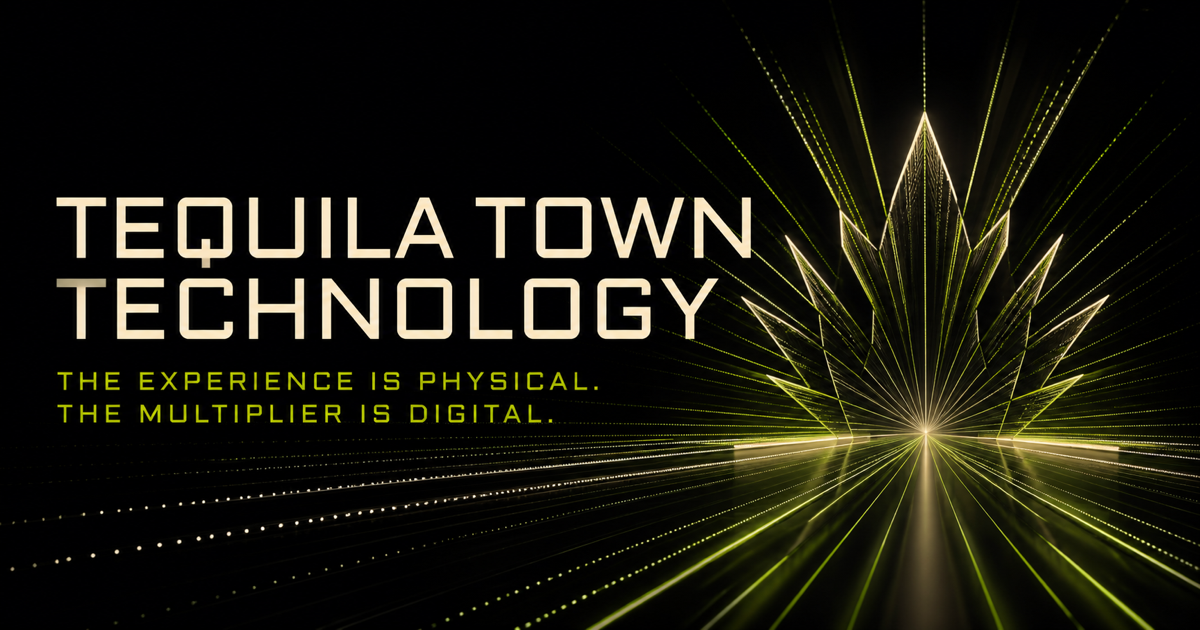
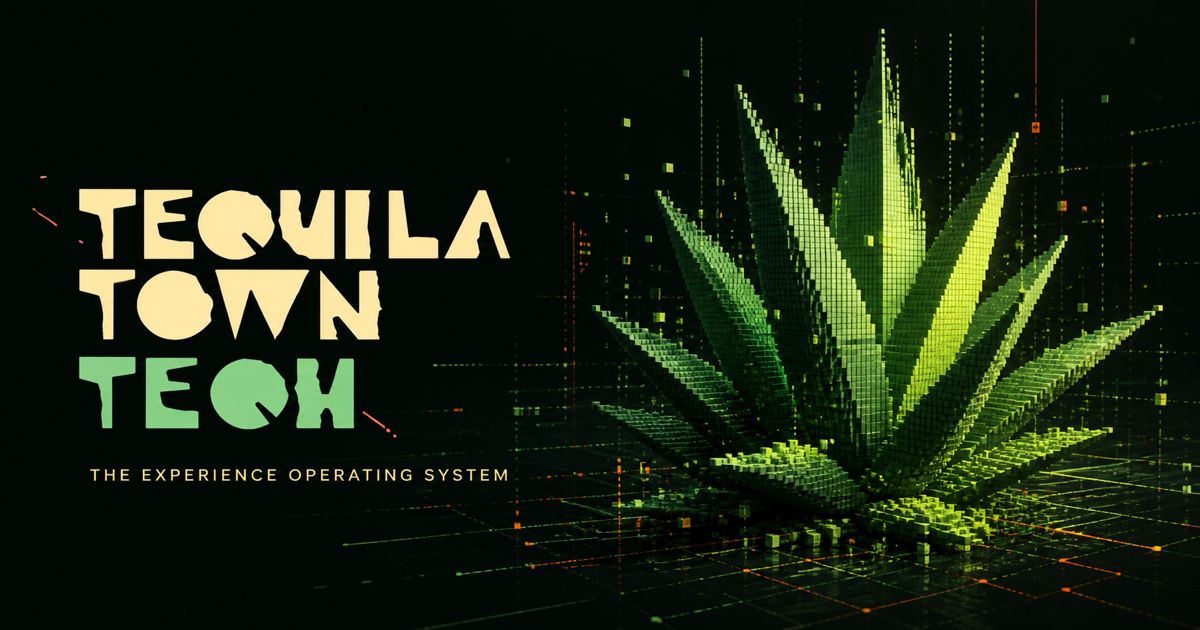
Add Tequila Town Tech identity system

diff --git a/app/product-engine.tsx b/app/product-engine.tsx
@@ -4,17 +4,13 @@ import { useEffect, useRef } from 'react';
 
 type ProductType = 'radar' | 'app' | 'swarm' | 'control';
 
-const palette: Record<ProductType, string> = {
-  radar: '#a6e187', app: '#b2e1d9', swarm: '#ff6a21', control: '#ffce64',
-};
-
 function useCanvas(drawScene: (ctx: CanvasRenderingContext2D, w: number, h: number, t: number, pointer: {x:number;y:number}) => void) {
   const ref = useRef<HTMLCanvasElement>(null);
   useEffect(() => {
     const canvas = ref.current; if (!canvas) return;
     const ctx = canvas.getContext('2d'); if (!ctx) return;
     const reduce = matchMedia('(prefers-reduced-motion: reduce)').matches;
-    let raf=0, visible=false, pointer={x:.5,y:.5}, target={...pointer};
+    let raf=0, visible=false, target={x:.5,y:.5}; const pointer={...target};
     const resize=()=>{const rect=canvas.getBoundingClientRect(),dpr=Math.min(devicePixelRatio,innerWidth<720?1.15:1.45);canvas.width=Math.max(1,Math.floor(rect.width*dpr));canvas.height=Math.max(1,Math.floor(rect.height*dpr));ctx.setTransform(dpr,0,0,dpr,0,0);};
     const move=(e:PointerEvent)=>{const r=canvas.getBoundingClientRect();target={x:(e.clientX-r.left)/r.width,y:(e.clientY-r.top)/r.height};};
     const loop=(ms:number)=>{pointer.x+=(target.x-pointer.x)*.045;pointer.y+=(target.y-pointer.y)*.045;const r=canvas.getBoundingClientRect();drawScene(ctx,r.width,r.height,reduce?6.4:ms*.001,pointer);if(visible&&!reduce)raf=requestAnimationFrame(loop);};
@@ -49,7 +45,7 @@ function app(ctx:CanvasRenderingContext2D,w:number,h:number,t:number,p:{x:number
   const c='#b2e1d9';base(ctx,w,h,c,p);ctx.save();ctx.translate((p.x-.5)*16,(p.y-.5)*10);
   const roads=[.18,.38,.62,.79];ctx.lineCap='round';roads.forEach((n,i)=>{ctx.strokeStyle=`rgba(178,225,217,${.1+i*.025})`;ctx.lineWidth=7;ctx.beginPath();ctx.moveTo(-20,h*n);ctx.bezierCurveTo(w*.2,h*(n-.22),w*.64,h*(n+.2),w+20,h*(n-.08));ctx.stroke();ctx.strokeStyle='#07100a';ctx.lineWidth=4;ctx.stroke();});
   const route=(u:number)=>{const x=32+(w-64)*u,y=h*.72-h*.46*u+Math.sin(u*Math.PI*2.3)*h*.12;return{x,y};};
-  ctx.strokeStyle='#b2e1d9';ctx.lineWidth=3;ctx.setLineDash([7,10]);ctx.beginPath();for(let i=0;i<=80;i++){const q=route(i/80);i?ctx.lineTo(q.x,q.y):ctx.moveTo(q.x,q.y);}ctx.stroke();ctx.setLineDash([]);
+  ctx.strokeStyle='#b2e1d9';ctx.lineWidth=3;ctx.setLineDash([7,10]);ctx.beginPath();for(let i=0;i<=80;i++){const q=route(i/80);if(i)ctx.lineTo(q.x,q.y);else ctx.moveTo(q.x,q.y);}ctx.stroke();ctx.setLineDash([]);
   for(let i=0;i<5;i++){const q=route(i/4);ctx.fillStyle=i<3?'#b2e1d9':'#0b1510';ctx.strokeStyle='#b2e1d9';ctx.lineWidth=2;ctx.beginPath();ctx.arc(q.x,q.y,9,0,Math.PI*2);ctx.fill();ctx.stroke();ctx.fillStyle=i<3?'#07100a':'#b2e1d9';ctx.font='700 9px monospace';ctx.textAlign='center';ctx.fillText(String(i+1),q.x,q.y+3);}
   const pulse=route((t*.13)%1);ctx.shadowBlur=22;ctx.shadowColor='#e0f257';ctx.fillStyle='#e0f257';ctx.beginPath();ctx.arc(pulse.x,pulse.y,5,0,Math.PI*2);ctx.fill();ctx.shadowBlur=0;ctx.restore();ctx.textAlign='left';ctx.fillStyle='rgba(255,241,182,.7)';ctx.font='500 10px monospace';ctx.fillText('LIVE GUEST JOURNEY / CHAPTER 03',22,h-24);
 }
@@ -58,13 +54,13 @@ function swarm(ctx:CanvasRenderingContext2D,w:number,h:number,t:number,p:{x:numb
   const c='#ff6a21';base(ctx,w,h,c,p);const cx=w*.5+(p.x-.5)*20,cy=h*.5+(p.y-.5)*16,rad=Math.min(w,h)*.32;
   const nodes=Array.from({length:8},(_,i)=>({x:cx+Math.cos(i/8*Math.PI*2-.3)*rad*(i%2?.82:1),y:cy+Math.sin(i/8*Math.PI*2-.3)*rad*.72,label:['GUEST','SALES','OPS','MEDIA','VIP','SPONSOR','DATA','CREATIVE'][i]}));
   nodes.forEach((n,i)=>{ctx.strokeStyle='rgba(255,106,33,.24)';ctx.lineWidth=1;ctx.beginPath();ctx.moveTo(cx,cy);ctx.quadraticCurveTo(cx+Math.sin(i)*45,cy+Math.cos(i)*30,n.x,n.y);ctx.stroke();const q=(t*.25+i*.123)%1,x=cx+(n.x-cx)*q,y=cy+(n.y-cy)*q;ctx.fillStyle=i%3===0?'#e0f257':'#ff6a21';ctx.beginPath();ctx.arc(x,y,2.5,0,Math.PI*2);ctx.fill();ctx.fillStyle='#0b1510';ctx.strokeStyle='rgba(255,106,33,.58)';ctx.lineWidth=1;ctx.fillRect(n.x-35,n.y-15,70,30);ctx.strokeRect(n.x-35,n.y-15,70,30);ctx.fillStyle='#fff1b6';ctx.font='600 8px monospace';ctx.textAlign='center';ctx.fillText(n.label,n.x,n.y+3);});
-  const pulse=1+Math.sin(t*2)*.07;ctx.save();ctx.translate(cx,cy);ctx.scale(pulse,pulse);ctx.rotate(t*.06);ctx.fillStyle='#ff6a21';ctx.beginPath();for(let i=0;i<6;i++){const a=i/6*Math.PI*2;i?ctx.lineTo(Math.cos(a)*48,Math.sin(a)*48):ctx.moveTo(Math.cos(a)*48,Math.sin(a)*48);}ctx.closePath();ctx.fill();ctx.restore();ctx.fillStyle='#07100a';ctx.font='800 11px monospace';ctx.textAlign='center';ctx.fillText('MISSION',cx,cy-2);ctx.font='600 8px monospace';ctx.fillText('ORCHESTRATOR',cx,cy+11);ctx.textAlign='left';ctx.fillStyle='rgba(255,241,182,.7)';ctx.font='500 10px monospace';ctx.fillText('8 SPECIALISTS / 3 MISSIONS IN FLIGHT',22,h-24);
+  const pulse=1+Math.sin(t*2)*.07;ctx.save();ctx.translate(cx,cy);ctx.scale(pulse,pulse);ctx.rotate(t*.06);ctx.fillStyle='#ff6a21';ctx.beginPath();for(let i=0;i<6;i++){const a=i/6*Math.PI*2;if(i)ctx.lineTo(Math.cos(a)*48,Math.sin(a)*48);else ctx.moveTo(Math.cos(a)*48,Math.sin(a)*48);}ctx.closePath();ctx.fill();ctx.restore();ctx.fillStyle='#07100a';ctx.font='800 11px monospace';ctx.textAlign='center';ctx.fillText('MISSION',cx,cy-2);ctx.font='600 8px monospace';ctx.fillText('ORCHESTRATOR',cx,cy+11);ctx.textAlign='left';ctx.fillStyle='rgba(255,241,182,.7)';ctx.font='500 10px monospace';ctx.fillText('8 SPECIALISTS / 3 MISSIONS IN FLIGHT',22,h-24);
 }
 
 function control(ctx:CanvasRenderingContext2D,w:number,h:number,t:number,p:{x:number;y:number}){
   const c='#ffce64';base(ctx,w,h,c,p);const pad=22,gap=10,top=60,pw=(w-pad*2-gap)/2,ph=(h-top-pad-gap)/2;
   const panels=[[pad,top],[pad+pw+gap,top],[pad,top+ph+gap],[pad+pw+gap,top+ph+gap]];
-  panels.forEach(([x,y],i)=>{ctx.fillStyle='rgba(5,9,6,.7)';ctx.fillRect(x,y,pw,ph);ctx.strokeStyle='rgba(255,206,100,.2)';ctx.strokeRect(x,y,pw,ph);ctx.fillStyle='rgba(255,241,182,.45)';ctx.font='500 8px monospace';ctx.fillText(['DEMAND VELOCITY','GUEST PARTICIPATION','MISSION CAPACITY','DECISION CONFIDENCE'][i],x+12,y+18);ctx.strokeStyle=i===2?'#ff6a21':'#ffce64';ctx.lineWidth=2;ctx.beginPath();for(let k=0;k<42;k++){const xx=x+12+(pw-24)*k/41,yy=y+ph*.64+Math.sin(k*.42+t*(.8+i*.18)+i)*ph*.12+Math.sin(k*.13+i)*ph*.08;k?ctx.lineTo(xx,yy):ctx.moveTo(xx,yy);}ctx.stroke();ctx.fillStyle='#fff1b6';ctx.font='700 18px Arial';ctx.fillText(['+24%','68%','07/09','92'][i],x+12,y+ph-15);});
+  panels.forEach(([x,y],i)=>{ctx.fillStyle='rgba(5,9,6,.7)';ctx.fillRect(x,y,pw,ph);ctx.strokeStyle='rgba(255,206,100,.2)';ctx.strokeRect(x,y,pw,ph);ctx.fillStyle='rgba(255,241,182,.45)';ctx.font='500 8px monospace';ctx.fillText(['DEMAND VELOCITY','GUEST PARTICIPATION','MISSION CAPACITY','DECISION CONFIDENCE'][i],x+12,y+18);ctx.strokeStyle=i===2?'#ff6a21':'#ffce64';ctx.lineWidth=2;ctx.beginPath();for(let k=0;k<42;k++){const xx=x+12+(pw-24)*k/41,yy=y+ph*.64+Math.sin(k*.42+t*(.8+i*.18)+i)*ph*.12+Math.sin(k*.13+i)*ph*.08;if(k)ctx.lineTo(xx,yy);else ctx.moveTo(xx,yy);}ctx.stroke();ctx.fillStyle='#fff1b6';ctx.font='700 18px Arial';ctx.fillText(['+24%','68%','07/09','92'][i],x+12,y+ph-15);});
   ctx.fillStyle='#ffce64';ctx.font='600 9px monospace';ctx.fillText('EXECUTIVE PULSE / LIVE OPERATING PICTURE',pad,34);
 }
 
@@ -85,8 +81,8 @@ export function FlywheelEngine(){
     ctx.strokeStyle='rgba(255,241,182,.15)';ctx.setLineDash([4,10]);ctx.beginPath();ctx.arc(cx,cy,r,0,Math.PI*2);ctx.stroke();ctx.setLineDash([]);
     labels.forEach((label,i)=>{const a=-Math.PI/2+i*Math.PI/2,x=cx+Math.cos(a)*r,y=cy+Math.sin(a)*r;ctx.strokeStyle=colors[i]+'88';ctx.beginPath();ctx.moveTo(cx,cy);ctx.lineTo(x,y);ctx.stroke();ctx.fillStyle='#07100a';ctx.strokeStyle=colors[i];ctx.lineWidth=1;ctx.fillRect(x-54,y-24,108,48);ctx.strokeRect(x-54,y-24,108,48);ctx.fillStyle=colors[i];ctx.textAlign='center';ctx.font='700 10px monospace';ctx.fillText(label,x,y+4);});
     for(let i=0;i<12;i++){const q=(t*.09+i/12)%1,a=-Math.PI/2+q*Math.PI*2,x=cx+Math.cos(a)*r,y=cy+Math.sin(a)*r;ctx.fillStyle=i%4===0?'#fff1b6':'#e0f257';ctx.shadowBlur=15;ctx.shadowColor=ctx.fillStyle;ctx.beginPath();ctx.arc(x,y,2.5+(i%4===0?2:0),0,Math.PI*2);ctx.fill();ctx.shadowBlur=0;}
-    ctx.save();ctx.translate(cx,cy);ctx.rotate(t*.05);ctx.strokeStyle='#e0f257';ctx.lineWidth=1.5;ctx.strokeRect(-60,-60,120,120);ctx.rotate(-t*.1);ctx.strokeStyle='rgba(255,241,182,.35)';ctx.strokeRect(-43,-43,86,86);ctx.restore();ctx.fillStyle='#fff1b6';ctx.textAlign='center';ctx.font='800 22px Arial';ctx.fillText('TOWN',cx,cy+4);ctx.fillStyle='#e0f257';ctx.font='500 8px monospace';ctx.fillText('TECHNOLOGY CORE',cx,cy+22);ctx.textAlign='left';
+    ctx.save();ctx.translate(cx,cy);ctx.rotate(t*.05);ctx.strokeStyle='#e0f257';ctx.lineWidth=1.5;ctx.strokeRect(-60,-60,120,120);ctx.rotate(-t*.1);ctx.strokeStyle='rgba(255,241,182,.35)';ctx.strokeRect(-43,-43,86,86);ctx.restore();ctx.fillStyle='#fff1b6';ctx.textAlign='center';ctx.font='800 22px Arial';ctx.fillText('TOWN',cx,cy+4);ctx.fillStyle='#e0f257';ctx.font='500 8px monospace';ctx.fillText('TECH CORE',cx,cy+22);ctx.textAlign='left';
   };
   const ref=useCanvas(draw);
-  return <div className="fly-engine"><canvas ref={ref} aria-label="Live Tequila Town Technology flywheel simulation"/><div className="engine-hud"><span><i/> COMPOUNDING</span><b>SIGNAL LOOP</b></div></div>;
+  return <div className="fly-engine"><canvas ref={ref} aria-label="Live Tequila Town Tech flywheel simulation"/><div className="engine-hud"><span><i/> COMPOUNDING</span><b>SIGNAL LOOP</b></div></div>;
 }

diff --git a/app/page.tsx b/app/page.tsx
@@ -1,6 +1,7 @@
 import ExperienceController from './experience';
 import SignalEngine from './signal-engine';
 import { FlywheelEngine, ProductEngine } from './product-engine';
+import Image from 'next/image';
 
 const products = [
   {
@@ -49,9 +50,8 @@ export default function Home() {
       <ExperienceController />
       <a className="skip-link" href="#platform">Skip to the platform</a>
       <header className="site-nav">
-        <a className="brand" href="#top" aria-label="Tequila Town Technology home">
-          <span className="brand-mark brand-mark-v3" aria-hidden="true"><i/><i/><i/><i/><i/><i/><i/></span>
-          <span className="brand-name brand-name-v2"><strong>TEQUILA TOWN</strong><em>TECHNOLOGY</em></span>
+        <a className="brand brand-image" href="#top" aria-label="Tequila Town Tech home">
+          <Image src="/brand/tequila-town-tech-horizontal.png" alt="Tequila Town Tech" width={1803} height={407} priority sizes="(max-width: 720px) 174px, 238px" />
         </a>
         <nav aria-label="Primary navigation">
           <a href="#platform">Platform</a><a href="#products">Products</a><a href="#flywheel">Flywheel</a><a href="#roadmap">Build plan</a>
@@ -64,7 +64,7 @@ export default function Home() {
         <SignalEngine />
         <div className="hero-vignette" aria-hidden="true" />
         <div className="hero-copy" data-reveal>
-          <p className="hero-brandline"><span>TEQUILA TOWN</span><b>TECHNOLOGY</b></p>
+          <p className="hero-brandline"><span>TEQUILA TOWN</span><b>TECH</b></p>
           <p className="eyebrow"><span>Real-world experience intelligence</span><span>System / 01—04</span></p>
           <h1 id="hero-title">The experience is physical.<br/><em>The multiplier is digital.</em></h1>
           <p className="hero-lede">Tequila Town is building a coordinated technology operating system around how it finds demand, engages guests, runs the operation, and sees the whole business.</p>
@@ -77,8 +77,8 @@ export default function Home() {
         <div className="section-index">01 / Platform premise</div>
         <div className="platform-copy" data-reveal>
           <p>Tequila Town is more than a venue.</p>
-          <h2>The physical experience creates the signal.<br/><em>T³ turns it into leverage.</em></h2>
-          <div className="platform-detail"><p>Acquisition, guest behavior, operations, and executive decisions are usually fragmented. T³ connects them into one learning system designed around the reality of a live experiential business.</p><p>The venue remains the attraction. Technology makes every cycle more intelligible, more coordinated, and increasingly repeatable.</p></div>
+          <h2>The physical experience creates the signal.<br/><em>Tequila Town Tech turns it into leverage.</em></h2>
+          <div className="platform-detail"><p>Acquisition, guest behavior, operations, and executive decisions are usually fragmented. The platform connects them into one learning system designed around the reality of a live experiential business.</p><p>The venue remains the attraction. Technology makes every cycle more intelligible, more coordinated, and increasingly repeatable.</p></div>
         </div>
         <div className="word-crop" aria-hidden="true"><span>TEQUILA</span><span>TOWN</span></div>
       </section>
@@ -119,7 +119,7 @@ export default function Home() {
         <div className="command-plate" aria-hidden="true"/>
         <div className="command-copy" data-reveal><span className="section-index">04 / Executive intelligence</span><h2>The command layer is not more dashboards.</h2><p>It is one place that answers the questions leadership actually has: What changed? What matters? Where is revenue moving? What should happen next?</p></div>
         <div className="command-console" data-reveal>
-          <header><span><i/> T³ CONTROL CENTER</span><b>EXECUTIVE BRIEF · TODAY</b></header>
+          <header><span><i/> TEQUILA TOWN TECH / CONTROL</span><b>EXECUTIVE BRIEF · TODAY</b></header>
           <div className="console-grid">
             <div className="console-main"><small>PRIORITY QUESTION</small><h3>What requires attention today?</h3><div className="priority"><span>01</span><div><b>Qualified group demand requires faster follow-up.</b><p>Radar has surfaced a cluster of high-fit opportunities. Current sales capacity is the constraint, not demand.</p></div></div><div className="recommend"><small>RECOMMENDED NEXT ACTION</small><p>Route the highest-fit accounts into an approval-ready outreach mission.</p></div></div>
             <aside><div><small>SYSTEM SIGNALS</small><p><i className="l1"/>Radar <b>Opportunity</b></p><p><i className="l2"/>App <b>Participation</b></p><p><i className="l3"/>Swarm <b>Capacity</b></p></div><div><small>OPERATING STATE</small><strong>Connected view</strong><span>Working foundation → production integration</span></div></aside>
@@ -146,9 +146,9 @@ export default function Home() {
 
       <section className="closing">
         <div className="closing-signal" aria-hidden="true"/><p>The venue is the experience.</p><h2>The technology is<br/><em>the multiplier.</em></h2><a href="#top">Return to the system <span>↑</span></a>
-        <div className="closing-mark" aria-label="Tequila Town Technology"><span className="closing-agave" aria-hidden="true"><i/><i/><i/><i/><i/></span><span>TEQUILA TOWN</span><small>TECHNOLOGY</small></div>
+        <Image className="closing-brand" src="/brand/tequila-town-tech-badge.png" alt="Tequila Town Tech" width={1024} height={1024} sizes="(max-width: 720px) 128px, 190px" />
       </section>
-      <footer><span>© 2026 Tequila Town Technology</span><span>Experience intelligence platform</span><span>Built around the physical experience</span></footer>
+      <footer><span className="footer-brand"><Image src="/brand/tequila-town-tech-horizontal.png" alt="Tequila Town Tech" width={1803} height={407} sizes="148px" /><small>© 2026</small></span><span>Experience intelligence platform</span><span>Built around the physical experience</span></footer>
     </main>
   );
 }

diff --git a/app/globals.css b/app/globals.css
@@ -54,3 +54,12 @@
 
 .closing-agave{position:relative;grid-row:1/3;width:56px;height:56px;margin-right:1rem;font-size:0!important}
 .closing-agave i{position:absolute;left:25px;bottom:7px;width:6px;height:38px;background:var(--lime);transform-origin:50% 100%}.closing-agave i:nth-child(2){transform:rotate(-36deg);background:var(--cream)}.closing-agave i:nth-child(3){transform:rotate(36deg);background:var(--cream)}.closing-agave i:nth-child(4){transform:rotate(-67deg);height:31px;background:#a6e187}.closing-agave i:nth-child(5){transform:rotate(67deg);height:31px;background:#a6e187}
+
+/* V4 — source-logo-derived identity system */
+.brand-image{display:block;width:clamp(176px,15.5vw,238px);height:54px;overflow:visible}
+.brand-image img{display:block;width:100%;height:100%;object-fit:contain;object-position:left center;filter:drop-shadow(0 8px 24px rgba(0,0,0,.3))}
+@media(max-width:720px){.brand-image{width:174px;height:48px}}
+@media(max-width:380px){.brand-image{width:156px}}
+.closing-brand{position:relative;z-index:2;width:clamp(132px,12vw,190px);height:auto;margin-top:auto;object-fit:contain;border-radius:50%;box-shadow:0 24px 80px rgba(0,0,0,.4)}
+.footer-brand{display:flex;align-items:center;gap:.8rem}.footer-brand img{display:block;width:148px;height:32px;object-fit:contain;object-position:left center}.footer-brand small{color:var(--muted);font:500 .5rem/1 monospace}
+@media(max-width:720px){.closing-brand{width:128px}.footer-brand img{width:138px}}

diff --git a/app/signal-engine.tsx b/app/signal-engine.tsx
@@ -137,7 +137,7 @@ export default function SignalEngine(){
     bind('a_position',3,0);bind('a_tone',1,3);bind('a_delay',1,4);bind('a_size',1,5);
     const resolution=gl.getUniformLocation(program,'u_resolution'),pointerLoc=gl.getUniformLocation(program,'u_pointer'),time=gl.getUniformLocation(program,'u_time'),progress=gl.getUniformLocation(program,'u_progress'),scroll=gl.getUniformLocation(program,'u_scroll');
     gl.enable(gl.DEPTH_TEST);gl.depthFunc(gl.LEQUAL);gl.enable(gl.BLEND);gl.blendFunc(gl.SRC_ALPHA,gl.ONE_MINUS_SRC_ALPHA);gl.clearColor(.012,.027,.018,1);
-    let target={x:.5,y:.5},pointer={...target},raf=0,visible=true,start=performance.now();
+    let target={x:.5,y:.5},raf=0,visible=true;const pointer={...target},start=performance.now();
     const resize=()=>{const dpr=Math.min(devicePixelRatio,innerWidth<720?1.25:1.65),rect=canvas.getBoundingClientRect();canvas.width=Math.max(1,Math.floor(rect.width*dpr));canvas.height=Math.max(1,Math.floor(rect.height*dpr));gl.viewport(0,0,canvas.width,canvas.height);};
     const move=(e:PointerEvent)=>{target={x:e.clientX/innerWidth,y:1-e.clientY/innerHeight};};
     const onVisibility=()=>{visible=!document.hidden;if(visible&&!raf)raf=requestAnimationFrame(draw);};

diff --git a/app/layout.tsx b/app/layout.tsx
@@ -3,18 +3,18 @@ import './globals.css';
 
 export const metadata: Metadata = {
   metadataBase: new URL('https://tequila-town-technology.blocpodcreative.chatgpt.site'),
-  title: 'Tequila Town Technology — The Experience Operating System',
+  title: 'Tequila Town Tech — The Experience Operating System',
   description: 'The technology operating system around Tequila Town: acquisition, guest experience, operations, and executive intelligence.',
-  icons: { icon: '/favicon.svg' },
+  icons: { icon: '/brand/favicon.png', apple: '/brand/apple-touch-icon.png' },
   openGraph: {
-    title: 'Tequila Town Technology',
+    title: 'Tequila Town Tech',
     description: 'The experience is physical. The multiplier is digital.',
     type: 'website',
-    images: [{ url: '/og.png', width: 1200, height: 630, alt: 'T³ — Tequila Town Technology' }],
+    images: [{ url: '/og.png', width: 1200, height: 630, alt: 'Tequila Town Tech — The Experience Operating System' }],
   },
   twitter: {
     card: 'summary_large_image',
-    title: 'Tequila Town Technology',
+    title: 'Tequila Town Tech',
     description: 'The experience is physical. The multiplier is digital.',
     images: ['/og.png'],
   },
